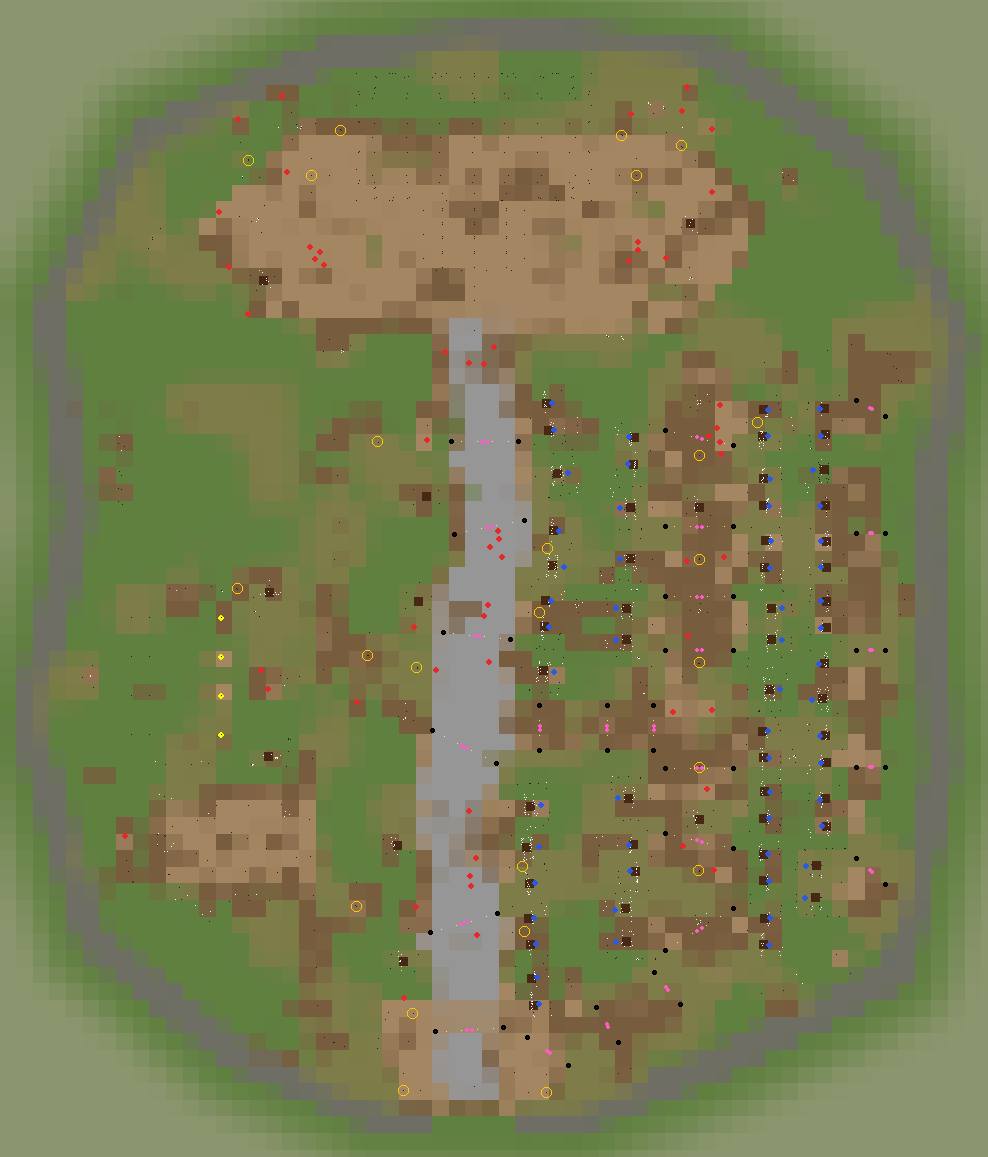
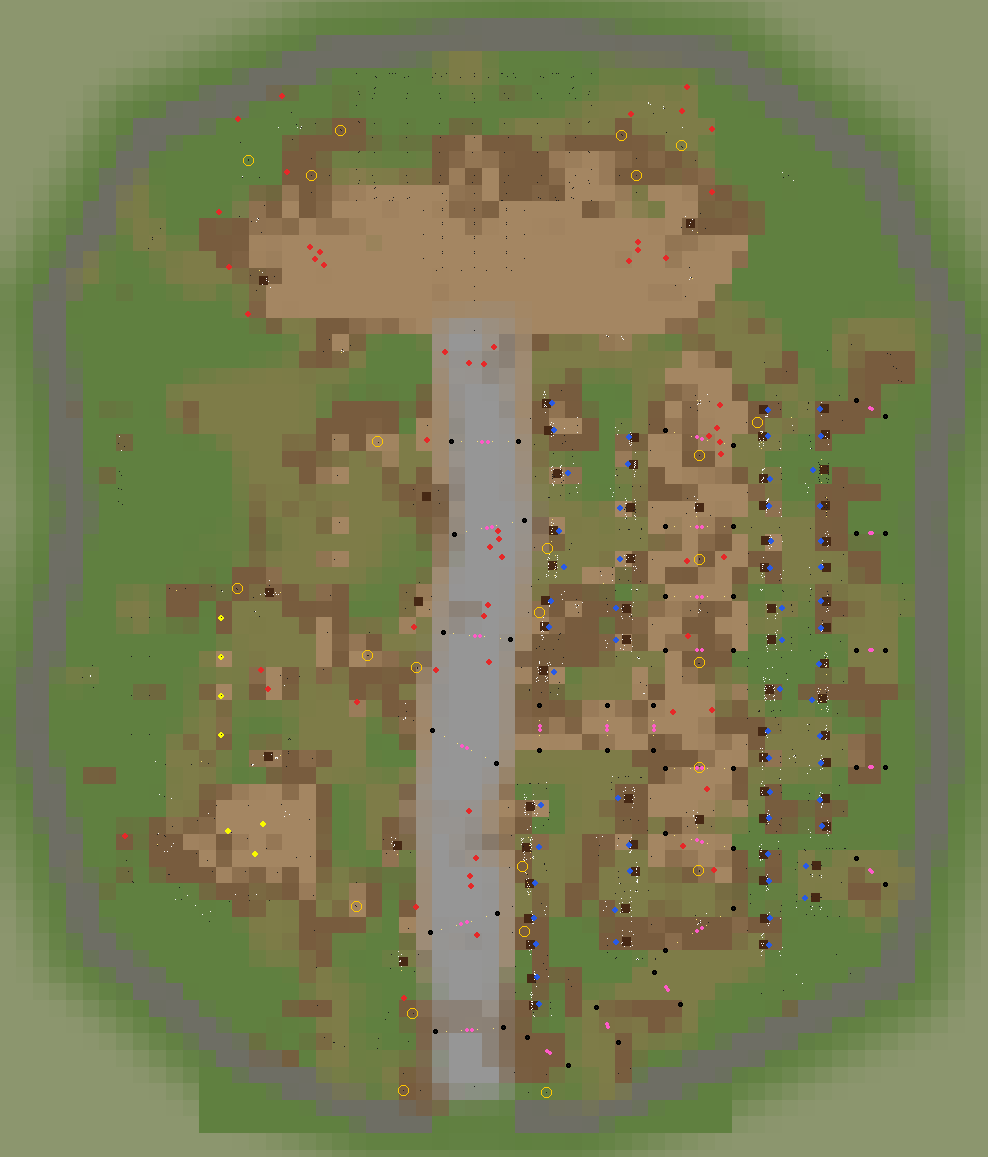
fix: unbroken cobbles, worn-to-green ground gradient, archery sign bar, horses in the pen
The game draws five alpha layers a landscape quadrant; the sixth, the cobbles, vanished
at the gate and stage quadrants. Cap at five, dropping the faintest, and fade the
cobbles' edge over 300 so it no longer breaks into terrain triangles. Wear now
fades from the middle of the fair to the palisade. Ring-hung Solitude signs get a
log crossbar between their posts. Three vanilla horses stand in the stable pen.

diff --git a/src/SkyrimFair.Generator/FairWorld.cs b/src/SkyrimFair.Generator/FairWorld.cs
@@ -54,8 +54,17 @@ internal static class FairWorld
     /// <summary>BTXT's layer field is always -1.</summary>
     private const ushort BaseLayerNumber = 0xFFFF;
 
-    /// <summary>Most alpha layers any one quadrant may carry; vanilla quadrants use up to five.</summary>
-    private const int MaxAlphaLayers = 6;
+    /// <summary>
+    /// Most alpha layers one quadrant may carry. The game draws six textures a quadrant, the
+    /// base and five alpha layers (vanilla never uses more); a sixth alpha layer is simply
+    /// not drawn, which cut the cobbles off at a quadrant edge.
+    /// </summary>
+    private const int MaxAlphaLayers = 5;
+
+    /// <summary>Faint layers left out of quadrants over the limit, in the last build.</summary>
+    public static int DroppedLayers => droppedLayers;
+
+    private static int droppedLayers;
 
     /// <summary>Water is switched off in every cell; this is belt and braces for the defaults.</summary>
     private const float NoWaterHeight = -50000f;
@@ -130,6 +139,7 @@ internal static class FairWorld
 
         var textures = groundTextures is null ? plan.PaintTextures() : null;
         var maxLayers = 0;
+        droppedLayers = 0;
 
         for (var cy = -config.CellRadius; cy <= config.CellRadius; cy++)
         {
@@ -590,7 +600,7 @@ internal static class FairWorld
                 },
             });
 
-            var layerNumber = 0;
+            var painted = new List<(FormKey Texture, ExtendedList<AlphaLayerData> Data, float Weight)>();
             foreach (var texture in textures)
             {
                 var data = new ExtendedList<AlphaLayerData>();
@@ -612,28 +622,34 @@ internal static class FairWorld
                     }
                 }
 
-                if (data.Count == 0)
+                if (data.Count > 0)
                 {
-                    continue;
+                    painted.Add((texture.Texture, data, data.Sum(d => d.Opacity)));
                 }
+            }
 
+            // Over the limit, the faintest layers go (a wisp of grass-dirt at a palisade
+            // corner), never the order of the rest.
+            while (painted.Count > MaxAlphaLayers)
+            {
+                var faintest = painted.Select((l, i) => (l.Weight, i)).Min().i;
+                painted.RemoveAt(faintest);
+                droppedLayers++;
+            }
+
+            var layerNumber = 0;
+            foreach (var (texture, data, _) in painted)
+            {
                 land.Layers.Add(new AlphaLayer
                 {
                     Header = new LayerHeader
                     {
-                        Texture = new FormLink<ILandscapeTextureGetter>(texture.Texture),
+                        Texture = new FormLink<ILandscapeTextureGetter>(texture),
                         Quadrant = quadrant,
-                        LayerNumber = (ushort)layerNumber,
+                        LayerNumber = (ushort)layerNumber++,
                     },
                     AlphaLayerData = data,
                 });
-                layerNumber++;
-            }
-
-            if (layerNumber > MaxAlphaLayers)
-            {
-                throw new InvalidOperationException(
-                    $"FairWorld cell {cx},{cy} {quadrant} needs {layerNumber} texture layers; the limit is {MaxAlphaLayers}.");
             }
 
             maxLayers = Math.Max(maxLayers, layerNumber);
@@ -829,7 +845,11 @@ internal static class FairWorld
             // The cobbles' fringe is scuffed to bare dirt by the traffic on and off them.
             var edge = MathF.Abs(PolylineDistance(avenue, x, y) - config.Ground.CobbleHalfWidth);
             w = MathF.Max(w, 0.8f * Fill(edge - 90f, 140f));
-            return w;
+
+            // Trodden hardest in the middle of the fair, less out toward the palisade.
+            var gc = config.Ground;
+            var middle = Smooth(-Outside(x, y) / gc.CentreDepth);
+            return w * (gc.EdgeWear + (1f - gc.EdgeWear) * middle) + gc.CentreWear * middle;
         }
 
         /// <summary>Distance along the avenue of the point on it nearest (x, y).</summary>
@@ -872,8 +892,8 @@ internal static class FairWorld
                     (x, y) => Fill(MathF.Abs(Outside(x, y)) - config.PerimeterStripWidth / 2f, StripFeather)
                         * (1f - Fill(GateDistance(x, y) - config.GateWidth / 2f, StripFeather))),
 
-                // Grass giving way: patchy dirt-grass nearly everywhere, more where it is walked.
-                new(ground!["dirtGrass"], (x, y) => Inside(x, y) * Smooth((0.34f + 0.8f * Wear(x, y) + (N1(x, y) - 0.5f) * 1.3f - 0.3f) / 0.35f)),
+                // Grass giving way: patchy dirt-grass, most in the middle of the fair and where it is walked.
+                new(ground!["dirtGrass"], (x, y) => Inside(x, y) * Smooth((0.16f + 0.24f * Smooth(-Outside(x, y) / gc.CentreDepth) + 0.8f * Wear(x, y) + (N1(x, y) - 0.5f) * 1.3f - 0.3f) / 0.35f)),
 
                 // Bare dirt in patches, following the wear but broken by noise at two scales.
                 new(ground["dirt"], (x, y) => Inside(x, y) * Smooth((0.1f + Wear(x, y) * 1.05f + (N2(x, y) - 0.5f) * 1.0f + (N3(x, y) - 0.5f) * 0.4f - 0.5f) / 0.25f)),
@@ -886,12 +906,13 @@ internal static class FairWorld
                 {
                     var along = AvenueStation(x, y);
                     if (along < gc.CobbleFrom - 200f || along > MathF.Min(gc.CobbleTo, length) + 200f) return 0f;
-                    var half = gc.CobbleHalfWidth + gc.CobbleRagged * (N3(x, y) * 2f - 1f) + gc.CobbleRagged * 0.6f * (N1(x, y) * 2f - 1f);
-                    var ends = Fill(gc.CobbleFrom - along, 160f) * Fill(along - MathF.Min(gc.CobbleTo, length), 160f);
+                    // The edge wanders slowly: a quick wander at this terrain resolution breaks it up.
+                    var half = gc.CobbleHalfWidth + gc.CobbleRagged * (N1(x, y) * 2f - 1f);
+                    var ends = Fill(gc.CobbleFrom - along, 300f) * Fill(along - MathF.Min(gc.CobbleTo, length), 300f);
 
                     // Here and there the stones are sunk under trodden dirt.
-                    var sunk = 1f - 0.75f * Smooth((N2(x, y) - 0.66f) / 0.1f);
-                    return Fill(PolylineDistance(avenue, x, y) - half, 110f) * ends * sunk;
+                    var sunk = 1f - gc.CobbleSunk * Smooth((N2(x, y) - 0.62f) / 0.2f);
+                    return Fill(PolylineDistance(avenue, x, y) - half, gc.CobbleFeather) * ends * sunk;
                 }),
             };
         }

diff --git a/src/SkyrimFair.Generator/FairConfig.cs b/src/SkyrimFair.Generator/FairConfig.cs
@@ -2286,6 +2286,26 @@ internal sealed record GroundConfig
 
     public float CobbleTo { get; init; } = float.MaxValue;
 
+    /// <summary>
+    /// How far the cobbles' edge takes to fade out. Keep it well over the 128 between
+    /// terrain vertices, or the edge breaks up into the terrain's hard triangles.
+    /// </summary>
+    public float CobbleFeather { get; init; } = 300f;
+
+    /// <summary>How much of the cobbled core is sunk under trodden dirt here and there (0..1).</summary>
+    public float CobbleSunk { get; init; } = 0.35f;
+
+    /// <summary>
+    /// How deep inside the palisade the ground is fully trodden. Wear fades from the middle
+    /// of the fair to <see cref="EdgeWear"/> of itself at the palisade.
+    /// </summary>
+    public float CentreDepth { get; init; } = 2000f;
+
+    public float EdgeWear { get; init; } = 0.45f;
+
+    /// <summary>Wear added all over the middle of the fair, fading to none at the palisade.</summary>
+    public float CentreWear { get; init; } = 0.2f;
+
     public float NoisePeriod { get; init; } = 520f;
 
     /// <summary>Wear radius and strength round each kind of source.</summary>
@@ -2377,6 +2397,23 @@ internal sealed record CrowdsConfig
     public string Name { get; init; } = "Fair Visitor";
 
     public List<CrowdGroup> Groups { get; init; } = new();
+
+    /// <summary>Animals placed as they are (the horses in the stable pen).</summary>
+    public List<CrowdAnimal> Animals { get; init; } = new();
+}
+
+internal sealed record CrowdAnimal
+{
+    public string Name { get; init; } = string.Empty;
+
+    /// <summary>A vanilla actor base, placed as it is.</summary>
+    public string Base { get; init; } = string.Empty;
+
+    /// <summary>The market dressing module it stands in (the first placed one).</summary>
+    public string Near { get; init; } = string.Empty;
+
+    /// <summary><c>[x, y, yaw]</c> in that module's frame.</summary>
+    public float[] At { get; init; } = Array.Empty<float>();
 }
 
 internal sealed record CrowdGroup

diff --git a/src/SkyrimFair.Generator/FairCrowds.cs b/src/SkyrimFair.Generator/FairCrowds.cs
@@ -144,8 +144,29 @@ internal static class FairCrowds
             groups.Add((group.Name, placedHere));
         }
 
-        return new CrowdsResult(looks.Count, stood, groups);
+        // Animals stand where they are put, in their module's frame.
+        var animals = 0;
+        foreach (var animal in config.Animals)
+        {
+            var home = blocked.FirstOrDefault(b => b.Kind == animal.Near)
+                ?? throw new InvalidOperationException($"fairWorld.crowds.animals {animal.Name}: no '{animal.Near}' was placed.");
+            var (u, v) = (animal.At[0], animal.At[1]);
+            var (c, s) = (MathF.Cos(home.Yaw * Deg), MathF.Sin(home.Yaw * Deg));
+            var (x, y) = (home.X + u * c + v * s, home.Y - u * s + v * c);
+            put(new PlacedNpc(mod)
+            {
+                Base = new FormLinkNullable<INpcGetter>(FormKeyHelper.Parse(animal.Base)),
+                Placement = new Placement
+                {
+                    Position = new P3Float(x, y, ground(x, y) + 2f),
+                    Rotation = new P3Float(0f, 0f, (home.Yaw + (animal.At.Length > 2 ? animal.At[2] : 0f)) * Deg),
+                },
+            });
+            animals++;
+        }
+
+        return new CrowdsResult(looks.Count, stood, groups, animals);
     }
 }
 
-internal sealed record CrowdsResult(int Records, IReadOnlyList<(float X, float Y)> Positions, IReadOnlyList<(string Name, int Placed)> Groups);
+internal sealed record CrowdsResult(int Records, IReadOnlyList<(float X, float Y)> Positions, IReadOnlyList<(string Name, int Placed)> Groups, int Animals);

diff --git a/src/SkyrimFair.Generator/Program.cs b/src/SkyrimFair.Generator/Program.cs
@@ -124,7 +124,7 @@ try
         Console.WriteLine(
             $"  planned compound {maxX - minX:0} x {maxY - minY:0} units, " +
             $"X {minX:0}..{maxX:0}, Y {minY:0}..{maxY:0}; " +
-            $"at most {world.MaxAlphaLayers} texture layers in a quadrant");
+            $"at most {world.MaxAlphaLayers} texture layers in a quadrant ({FairWorld.DroppedLayers} faint ones left out)");
         var wall = world.Wall;
         Console.WriteLine(
             $"  palisade: {wall.PanelCount} panels of STAT {wall.PanelStatic}, " +
@@ -237,7 +237,7 @@ try
 
         if (world.Crowds is { } crowds)
         {
-            Console.WriteLine($"  visitors: {crowds.Positions.Count} from {crowds.Records} records: {string.Join(", ", crowds.Groups.Select(g => $"{g.Name} {g.Placed}"))}");
+            Console.WriteLine($"  visitors: {crowds.Positions.Count} from {crowds.Records} records: {string.Join(", ", crowds.Groups.Select(g => $"{g.Name} {g.Placed}"))}; animals {crowds.Animals}");
         }
 
         if (world.Towers is { } towers)

diff --git a/docs/AUDIT.md b/docs/AUDIT.md
@@ -2,7 +2,32 @@
 
 This is the current verified state of Skyrim Fair and Barry's local deployment. Git history holds older reports; this file is a complete current snapshot.
 
-## Current pass: stage crowd area and stable corner (2026-09-23)
+## Current pass: ground wear, cobbles, archery sign, horses (2026-09-23)
+
+Barry's review of the crowd and stable pass: vary the ground's wear (more worn in the
+middle, less toward the palisade); the cobbles "don't pull through"; the archery sign
+floats; no horses in the stable pen.
+
+| Problem | Cause | Fix |
+| --- | --- | --- |
+| Cobbles break off in hard-edged wedges | two causes. (1) The game draws six textures a quadrant, the base and five alpha layers; the build allowed six alpha layers, so where the palisade's strip joined the four fair textures (the gate quadrants, the one by the stage), the sixth, the cobbles, was never drawn. (2) The cobbles faded out over 110 units, under the 128 between terrain vertices, and their edge wandered quickly, so the strip broke into the terrain's hard triangles | at most **five alpha layers** a quadrant: over the limit the faintest goes (3 wisps of tundra outside the gate). The cobbles' edge now fades over 300 (`ground.cobbleFeather`), wanders slowly (`cobbleRagged` 45, half-width 300), and the sunk patches are milder (`cobbleSunk` 0.35). Read back: one unbroken strip from the gate to the dance floor |
+| Wear the same everywhere | wear depended only on what stood nearby | wear now fades from the middle of the fair (`centreDepth` 2000 inside the palisade) to 45% at the palisade (`edgeWear`), plus 0.2 all over the middle (`centreWear`); the patchy dirt-grass follows the same gradient, so the outskirts stay greener |
+| Archery sign floats | the Solitude fletcher's sign hangs from rings at its top, and nothing ran between the posts to hang it from (the Whiterun signs carry their own bar) | a thin log crossbar (`WHIntWoodLogVerticalThinShort01` laid flat) between the posts, the rings hung from it. The same bar goes on the four Solitude-sign vignettes (fletcher, clothes, aromatics, curios) |
+| No horses | the pen was left for later | three vanilla unsaddled horses (brown, grey, palomino: `EncHorse*`) stand in the pen, from the new `fairWorld.crowds.animals`, placed in the pen's own frame |
+
+Verification: generator run twice, identical SHA256 `158de1d65cec1163...` (569,247 bytes),
+deployed byte-identical; nothing new to deploy besides the ESP (all vanilla records).
+Plan in `docs/images/lively_plan.png`.
+
+**Test**:
+- Do the cobbles run unbroken from the gate to the stage, with a soft edge?
+- Does the ground look more trodden in the middle and greener at the edges?
+- Does the archery sign hang from its bar? Check the bar doesn't sit backwards or tilted
+  (it relies on the lay-flat rotation the arrow bundles use).
+- Do the horses stay in the pen? Can the player ride them? They're vanilla horses with no
+  owner, so riding one may take it for free.
+
+## Previous pass: stage crowd area and stable corner (2026-09-23)
 
 Barry's brief: "block out and dress the stage crowd area" (a dance area, a standing /
 watching area, and a seating / social edge), and "the horse pens / stable corner" on the

diff --git a/docs/CODEX_HANDOVER.md b/docs/CODEX_HANDOVER.md
@@ -564,6 +564,10 @@ Project-owned mesh work is code-first and reproducible.
 - the performance square has three sub-zones: `Dance` (keep-outs `DanceFloor` + `StageFront`, worn ground, left open for dancers), `Watching` (keep-outs `WatchingSouth/West/East`, watcher groups face the stage) and a social edge of `social_*` clusters placed with `dressing.exemptKeepOut: ["Crowd"]` (only that keep-out is waived; the avenue corridor and sightline band still apply)
 - the stable corner is the `Stables` zone (marker for horses later) in the south of the west field: a `horse_pen` of vanilla `WRFenceStr01` rails laid on Whiterun's 256 grid (origin 15 off the rail's middle, +53 up) with a gate gap facing the fair, a lean-to shelter, feed store, hitching rail and tack stand
 - crowd groups `near` a dressing module now spread from the module's edge, not its middle
+- the game draws only the base and **five alpha layers** a landscape quadrant; `FairWorld.PaintLayers` drops the faintest over that. Keep terrain-texture edges fading over well more than 128 (the vertex spacing), or they break into hard triangles
+- ground wear has a middle-to-palisade gradient (`ground.centreDepth`, `edgeWear`, `centreWear`)
+- signs hung by rings (the Solitude ones) need the thin-log crossbar between their posts; Whiterun signs carry their own bar
+- `fairWorld.crowds.animals` places vanilla actors as they are, in a dressing module's frame (the pen's horses)
 - invisible walls are `fairWorld.collisionWalls` segments, built as vanilla `CollisionMarker` box primitives (half-extents, default layer)
 - the cobbles use the Whiterun Mossy Wet Stonefloor textures copied to `textures\SkyrimFair\Ground\Cobble01*.dds` (git-ignored; restore from `external/` before deploying)
 - `fairWorld.overhead` swags festival lines across lanes (poles inside the corridor edge, two mirrored `SRopefestivalLine01` halves, lanterns along the curve); `fairWorld.crowds` places visitor groups by theme, point or dressing module; `fairWorld.ground` paints the worn ground after everything is placed (fair-owned LTEX/TXST copies with parallax height slots, cobbled avenue), keeping LAND FormIDs by allocating LAND with the cells
